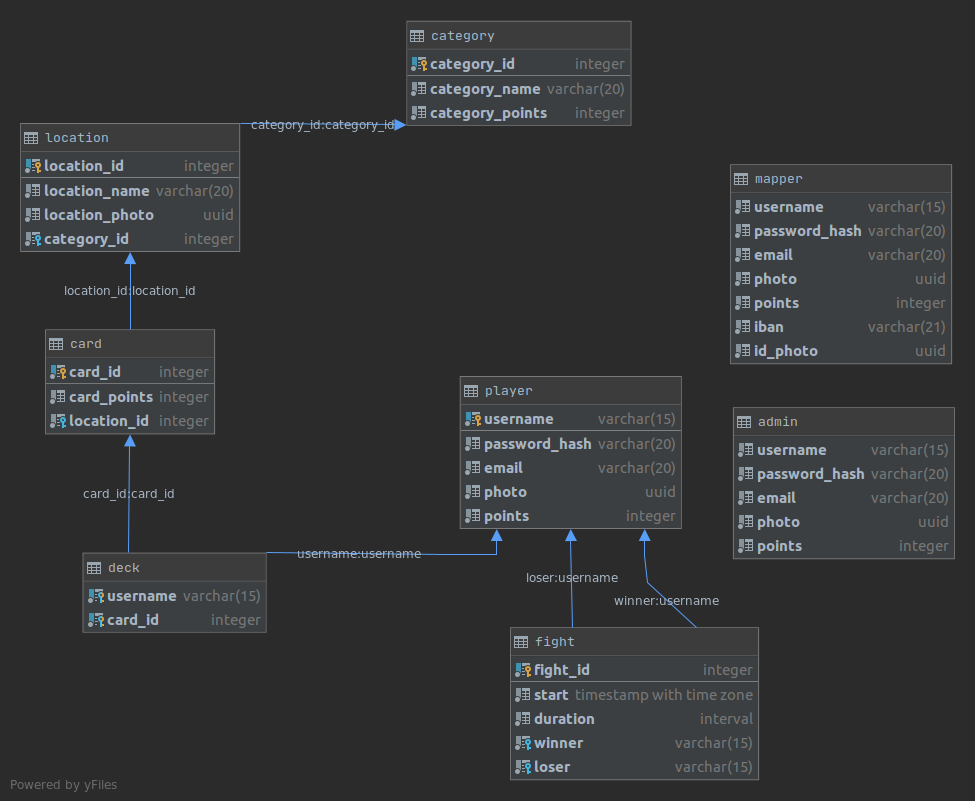
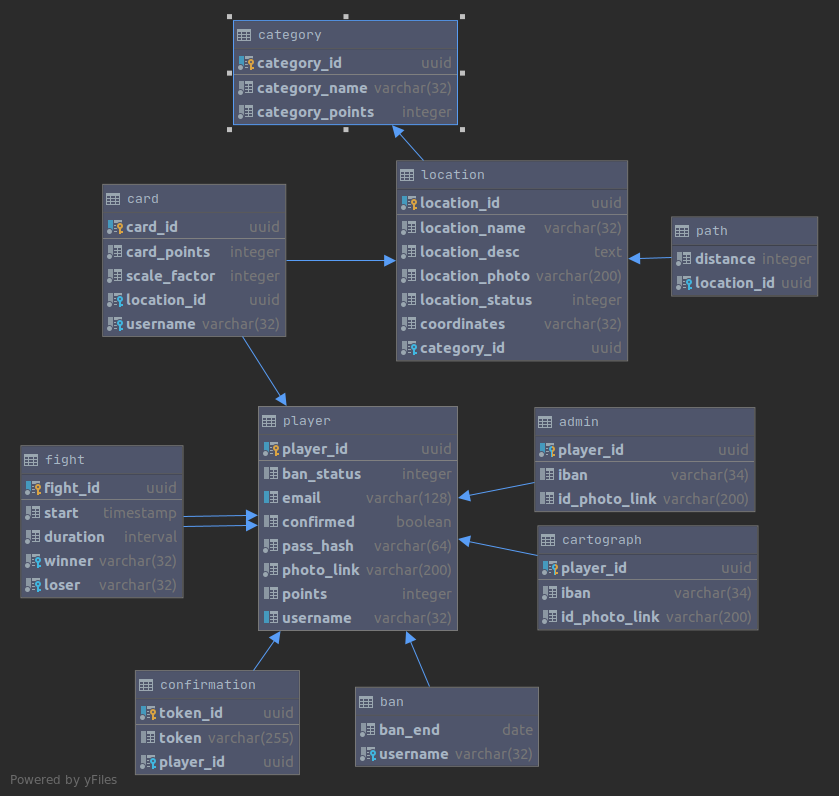
Promjene baze; Promjena dijagrama i tablica

diff --git a/dokumentacija/Arhitektura.tex b/dokumentacija/Arhitektura.tex
@@ -45,11 +45,50 @@
 					\hline 
 					\endlastfoot
 					
-					\cellcolor{LightGreen}username & VARCHAR(15) 	&  	jedinstveni identifikator korisnika 	\\ \hline
-					password\_hash & VARCHAR(20)  &   hash lozinke \\ \hline 
-					email & VARCHAR(20)  &   e-mail adresa korisnika \\ \hline 
-					photo & UUID & fotografija (avatar$)$ korisnika \\ \hline 
-					points & INT	&  	broj bodova igrača	\\ \hline 
+					\cellcolor{LightGreen}player\_id & UUID 	&  	jedinstveni brojčani identifikator korisnika 	\\ \hline
+					username & VARCHAR(32) 	&  	jedinstveno korisničko ime 	\\ \hline
+					pass\_hash & VARCHAR(64)  &   hash lozinke \\ \hline 
+					email & VARCHAR(128)  &   jedinstvena e-mail adresa korisnika \\ \hline 
+					photo\_link & VARCHAR(200) & fotografija (avatar$)$ korisnika \\ \hline 
+					points & INT	&  	broj bodova igrača	\\ \hline
+					ban\_status & INT	&  	status o zabranama igrača	\\ \hline 
+					
+				\end{longtabu}
+			
+				\noindent\textbf{confirmation} $($Potvrda registracije$)$ - Ovaj entitet sadržava podatke o potvrdi registracije. Sadrži atribute . Ovaj entitet u vezi je \textit{One-to-One} s Player preko jedinstvenog brojčanog identifikatora korisnika.
+				
+				\begin{longtabu} to \textwidth {|X[7, l]|X[7, l]|X[20, l]|}
+					
+					\hline \multicolumn{3}{|c|}{\textbf{ban}}	 \\[3pt] \hline
+					\endfirsthead
+					
+					\hline \multicolumn{3}{|c|}{\textbf{ban}}	 \\[3pt] \hline
+					\endhead
+					
+					\hline 
+					\endlastfoot
+					
+					\cellcolor{LightGreen}token\_id & UUID 	&   jedinstveni brojčani identifikator registracije 	\\ \hline
+					token & VARCHAR(255) & token potvrde o registraciji\\ \hline
+					\cellcolor{LightBlue}player\_id & UUID 	&   jedinstveni brojčani identifikator korisnika 	\\ \hline  
+					
+				\end{longtabu}
+			
+				\noindent\textbf{ban} $($Zabrana pristupa$)$ - Ovaj entitet sadržava podatke o igračima kojima je zabranjen pristup aplikaciji. Sadrži atribute kraj zabrane i korisničko ime igrača. Ovaj entitet u vezi je \textit{One-to-One} s Player preko korisničkog imena.
+				
+				\begin{longtabu} to \textwidth {|X[7, l]|X[7, l]|X[20, l]|}
+					
+					\hline \multicolumn{3}{|c|}{\textbf{ban}}	 \\[3pt] \hline
+					\endfirsthead
+					
+					\hline \multicolumn{3}{|c|}{\textbf{ban}}	 \\[3pt] \hline
+					\endhead
+					
+					\hline 
+					\endlastfoot
+					
+					\cellcolor{LightBlue}username & VARCHAR(32) 	&   korisničko ime igrača 	\\ \hline 
+					ban\_end & DATE & datum isteka zabrane \\ \hline 
 					
 				\end{longtabu}
 				
@@ -66,13 +105,9 @@
 					\hline 
 					\endlastfoot
 					
-					\cellcolor{LightGreen}username & VARCHAR(15) 	&  	jedinstveni identifikator korisnika 	\\ \hline
-					password\_hash & VARCHAR(20)  &   hash lozinke \\ \hline 
-					email & VARCHAR(20)  &   e-mail adresa korisnika \\ \hline 
-					photo & UUID & fotografija (avatar$)$ korisnika \\ \hline 
-					points & INT	&  	broj bodova igrača	\\ \hline 
-					iban & VARCHAR(21)  & IBAN računa za uplatu plaće \\ \hline 
-					id\_photo & UUID & fotografija osobne iskaznice \\ \hline 
+					\cellcolor{LightGreen}player\_id & UUID 	&  	jedinstveni brojčani identifikator kartografa 	\\ \hline
+					iban & VARCHAR(34)  & IBAN računa za uplatu plaće \\ \hline 
+					id\_photo & VARCHAR(200) & fotografija osobne iskaznice \\ \hline 
 					
 				\end{longtabu}
 			
@@ -89,11 +124,9 @@
 					\hline 
 					\endlastfoot
 					
-					\cellcolor{LightGreen}username & VARCHAR(15)	&  	jedinstveni identifikator korisnika 	\\ \hline
-					password\_hash & VARCHAR(20) &   hash lozinke \\ \hline 
-					email & VARCHAR(20) &   e-mail adresa korisnika \\ \hline 
-					photo & UUID & fotografija (avatar$)$ korisnika \\ \hline 
-					points & INT	&  	broj bodova igrača	\\ \hline 
+					\cellcolor{LightGreen}player\_id & UUID 	&  	jedinstveni brojčani identifikator administratora 	\\ \hline
+					iban & VARCHAR(34)  & IBAN računa za uplatu plaće \\ \hline 
+					id\_photo & VARCHAR(200) & fotografija osobne iskaznice \\ \hline  
 					
 				\end{longtabu}
 			
@@ -110,15 +143,15 @@
 					\hline 
 					\endlastfoot
 					
-					\cellcolor{LightGreen}fight\_id & INT	&  	jedinstveni brojčani identifikator borbe 	\\ \hline
+					\cellcolor{LightGreen}fight\_id & UUID	&  	jedinstveni brojčani identifikator borbe 	\\ \hline
 					start & TIMESTAMP  &   trenutak početka borbe \\ \hline 
 					duration & INTERVAL	&  	trajanje borbe	\\ \hline 
-					\cellcolor{LightBlue}winner	& VARCHAR(15) & korisničko ime pobjednika borbe  	\\ \hline 
-					\cellcolor{LightBlue}loser	& VARCHAR(15) & korisničko ime gubitnika borbe  	\\ \hline 
+					\cellcolor{LightBlue}winner	& VARCHAR(32) & korisničko ime pobjednika borbe  	\\ \hline 
+					\cellcolor{LightBlue}loser	& VARCHAR(32) & korisničko ime gubitnika borbe  	\\ \hline 
 					
 				\end{longtabu}
 
-				{\noindent\textbf{location} $($Lokacija$)$ - Ovaj entitet sadržava sve važne informacije o lokacijama na kojima igrač može sakupiti karte. Sadrži atribute: ID lokacije, naziv lokacije, fotografiju lokacije i ID kategorije. Ovaj entitet u vezi je \textit{Many-to-One} s Category preko ID kategorije.}
+				{\noindent\textbf{location} $($Lokacija$)$ - Ovaj entitet sadržava sve važne informacije o lokacijama na kojima igrač može sakupiti karte. Sadrži atribute: ID lokacije, naziv lokacije, fotografiju lokacije i ID kategorije. Ovaj entitet u vezi je \textit{Many-to-One} s Category preko ID kategorije te je u vezi \textit{One-to-One} s Path preko ID lokacije. }
 				
 				\begin{longtabu} to \textwidth {|X[6, l]|X[7, l]|X[20, l]|}
 					
@@ -131,10 +164,32 @@
 					\hline 
 					\endlastfoot
 					
-					\cellcolor{LightGreen}location\_id & INT	&   jedinstveni brojčani identifikator lokacije	\\ \hline
-					location\_name	& VARCHAR(20) &  naziv lokacije 	\\ \hline 
-					location\_photo & UUID &  fotografija lokacije \\ \hline 
-					\cellcolor{LightBlue} category\_id	& INT &   jedinstveni brojčani identifikator kategorije	\\ \hline 
+					\cellcolor{LightGreen}location\_id & UUID	&   jedinstveni brojčani identifikator lokacije	\\ \hline
+					location\_name	& VARCHAR(32) &  naziv lokacije 	\\ \hline 
+					location\_desc	& TEXT &  opis lokacije 	\\ \hline 
+					location\_photo & VARCHAR(200) &  fotografija lokacije \\ \hline 
+					location\_status	& INT &  status prihvatljivosti lokacije 	\\ \hline 
+					coordinates	& VARCHAR(32) &  koordinate lokacije 	\\ \hline 
+					\cellcolor{LightBlue} category\_id	& UUID &   jedinstveni brojčani identifikator kategorije	\\ \hline 
+					
+					
+				\end{longtabu}
+			
+				{\noindent\textbf{path} $($Najkraći put$)$ - Ovaj entitet sadržava sve važne informacije o najkraćem putu do lokacija koje je potrebno provjeriti. Sadrži atribute. Ovaj entitet u vezi je \textit{One-to-One} s Location preko ID lokacije.}
+				
+				\begin{longtabu} to \textwidth {|X[6, l]|X[7, l]|X[20, l]|}
+					
+					\hline \multicolumn{3}{|c|}{\textbf{path}}	 \\[3pt] \hline
+					\endfirsthead
+					
+					\hline \multicolumn{3}{|c|}{\textbf{path}}	 \\[3pt] \hline
+					\endhead
+					
+					\hline 
+					\endlastfoot
+					
+					distance & INT &  najkraći put do lokacije \\ \hline
+					\cellcolor{LightBlue} location\_id	& UUID &   jedinstveni brojčani identifikator lokacije	\\ \hline 
 					
 					
 				\end{longtabu}
@@ -152,8 +207,8 @@
 					\hline 
 					\endlastfoot
 					
-					\cellcolor{LightGreen}category\_id & INT	&   jedinstveni brojčani identifikator kategorije	\\ \hline
-					category\_name	& VARCHAR(20) &  naziv kategorije 	\\ \hline 
+					\cellcolor{LightGreen}category\_id & UUID	&   jedinstveni brojčani identifikator kategorije	\\ \hline
+					category\_name	& VARCHAR(32) &  naziv kategorije 	\\ \hline 
 					category\_points & INT &  bodovna vrijednost kategorije \\ \hline  
 					
 					
@@ -172,28 +227,11 @@
 					\hline 
 					\endlastfoot
 					
-					\cellcolor{LightGreen}card\_id & INT	&   jedinstveni brojčani identifikator karte	\\ \hline 
+					\cellcolor{LightGreen}card\_id & UUID	&   jedinstveni brojčani identifikator karte	\\ \hline 
 					card\_points & INT &  bodovna vrijednost karte \\ \hline 
-					\cellcolor{LightBlue} location\_id	& INT &   jedinstveni brojčani identifikator lokacije	\\ \hline 
-					
-					
-				\end{longtabu}
-			
-				{\noindent\textbf{deck} $($Špil karata$)$ - Ovaj entitet sadržava sve važne informacije o špilu koje igrač posjeduje. Sadrži atribute: korisničko ime i ID karte. Ovaj entitet u vezi je \textit{One-to-One} s Player preko korisničkog imena te \textit{One-to-Many} s Deck preko ID karte.}
-				
-				\begin{longtabu} to \textwidth {|X[6, l]|X[7, l]|X[20, l]|}
-					
-					\hline \multicolumn{3}{|c|}{\textbf{deck}}	 \\[3pt] \hline
-					\endfirsthead
-					
-					\hline \multicolumn{3}{|c|}{\textbf{deck}}	 \\[3pt] \hline
-					\endhead
-					
-					\hline 
-					\endlastfoot
-					
-					\cellcolor{LightBlue}username & VARCHAR(15)	&   korisničko ime igrača	\\ \hline
-					\cellcolor{LightBlue} card\_id	& INT &   jedinstveni brojčani identifikator karte	\\ \hline 
+					scale\_factor & INT &  faktor skaliranja bodova karte \\ \hline 
+					\cellcolor{LightBlue} location\_id	& UUID &   jedinstveni brojčani identifikator lokacije	\\ \hline 
+					\cellcolor{LightBlue}username & VARCHAR(32)	&   korisničko ime igrača	\\ \hline
 					
 					
 				\end{longtabu}
